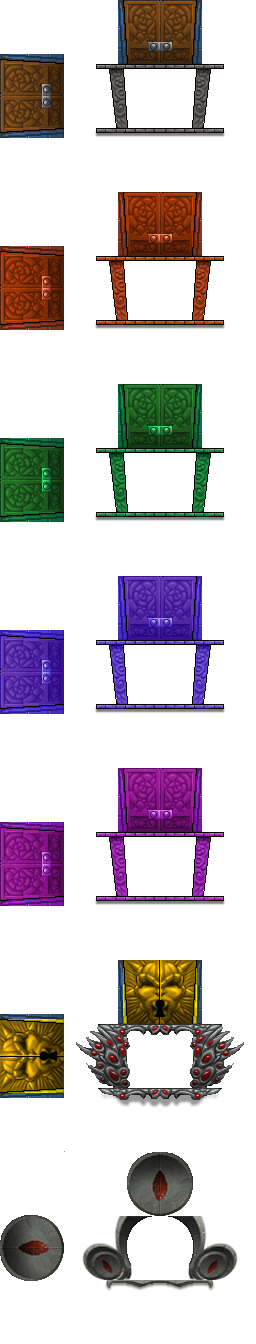
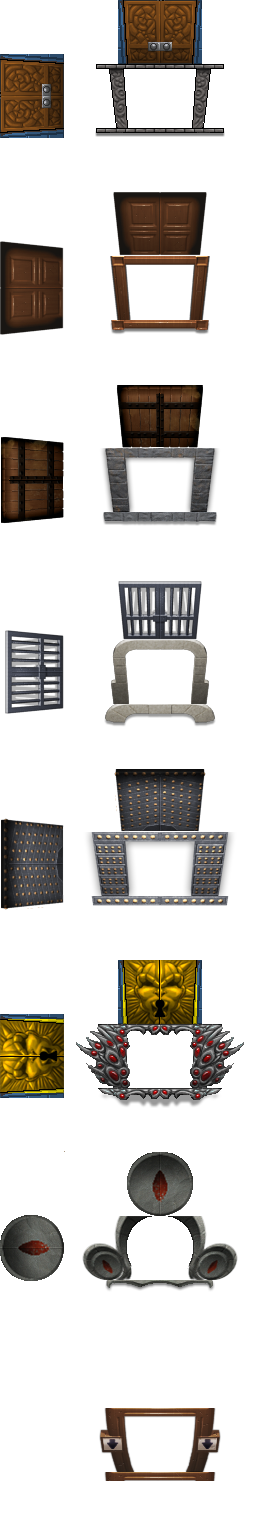
ADD Art for doors

diff --git a/src/PlayerEntity.cpp b/src/PlayerEntity.cpp
@@ -597,8 +597,6 @@ void PlayerEntity::animate(float delay)
     velocity.x = -creatureSpeed / 3;
     facingDirection = 4;
 
-    int doorStypeStandard = DoorStandard_0 + (game().getLevel() - 1) % 5;
-
     SpriteEntity* exitDoorEntity = new SpriteEntity(ImageManager::getInstance().getImage(IMAGE_TILES),
         (MAP_WIDTH / 2) * TILE_WIDTH - TILE_WIDTH / 2,
         TILE_HEIGHT / 2, 64, 64, 1);
@@ -612,7 +610,7 @@ void PlayerEntity::animate(float delay)
         TILE_HEIGHT / 2, 64, 64, 1);
     exitDoorAroundEntity->setZ(TILE_HEIGHT + 1);
     exitDoorAroundEntity->setImagesProLine(2);
-    exitDoorAroundEntity->setFrame(3 + 6 * doorStypeStandard);
+    exitDoorAroundEntity->setFrame(3 + 6 * DoorExit);
     exitDoorAroundEntity->setType(ENTITY_EFFECT);
 
     SpriteEntity* exitDoorEntityShadow = new SpriteEntity(ImageManager::getInstance().getImage(IMAGE_TILES_SHADOW),

diff --git a/src/DungeonMap.cpp b/src/DungeonMap.cpp
@@ -159,7 +159,7 @@ int DungeonMap::getDoorType(int direction)
         return doorStypeStandard;
     }
     else if (roomType == roomTypeExit)
-      return doorStypeStandard;
+      return DoorExit;
     else return -1;
   }
 

diff --git a/src/DoorEntity.h b/src/DoorEntity.h
@@ -11,7 +11,8 @@ enum doorEnum
   DoorStandard_3,
   DoorStandard_4,
   DoorBoss,
-  DoorChallenge
+  DoorChallenge,
+  DoorExit
 };
 
 class DoorEntity : public SpriteEntity
